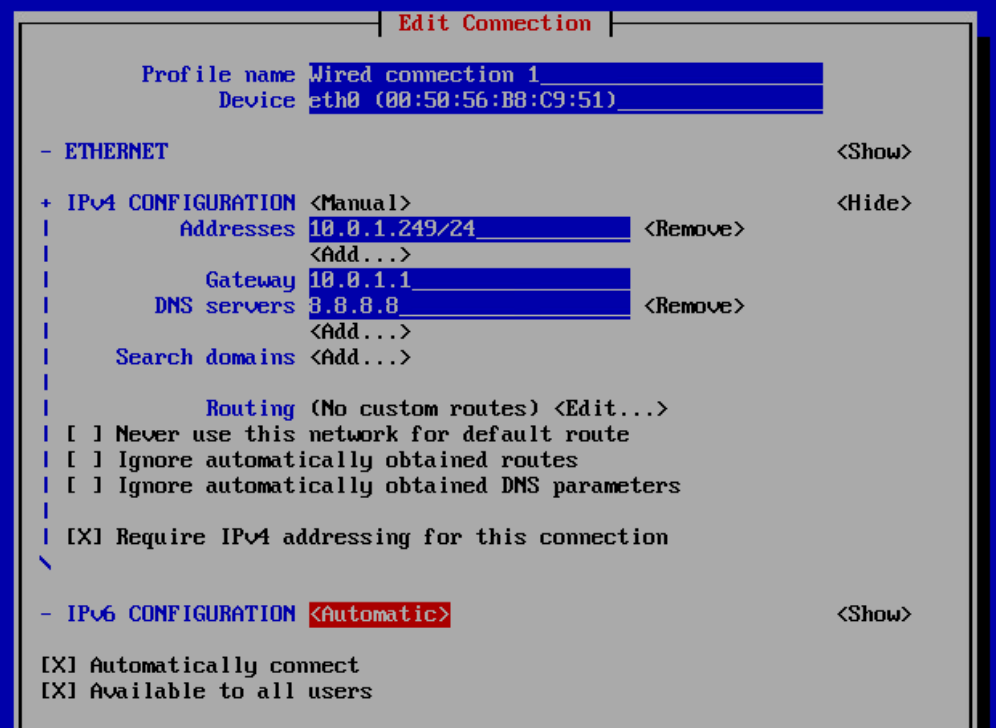
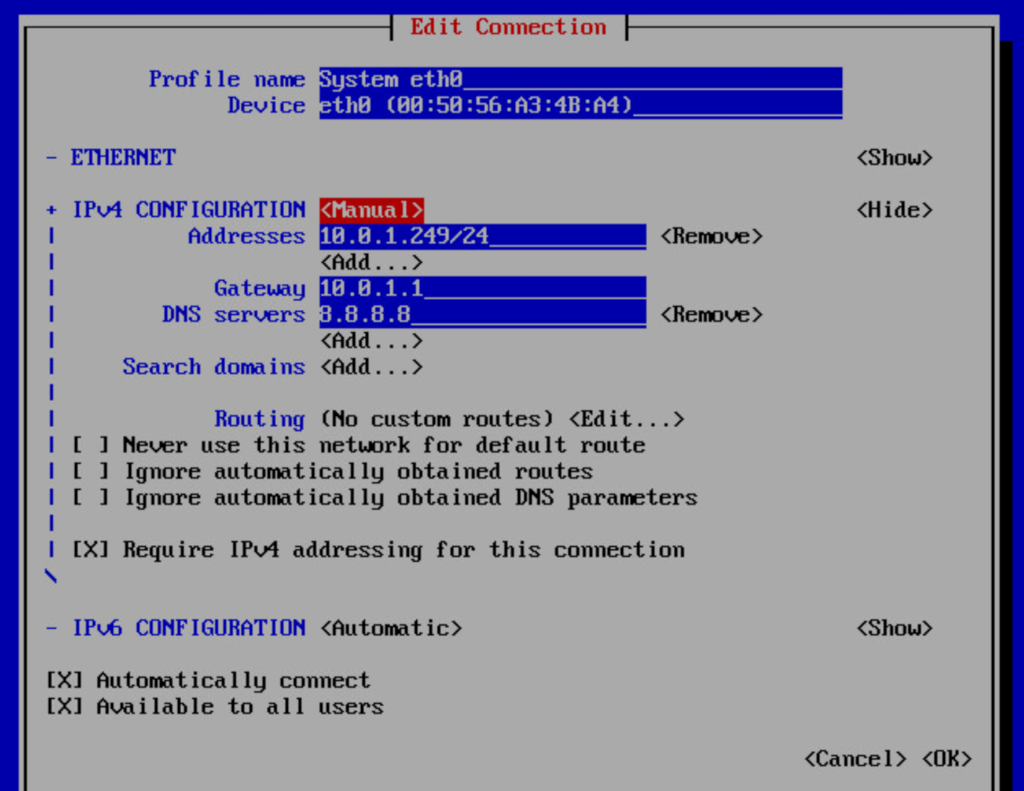
M #-: Update console screenshots

Changed region(s): [[0.0, 0.0, 0.996, 1.0], [0.8404, 0.1813, 0.9337, 0.3022], [0.8404, 0.7857, 0.9026, 0.8764]]

diff --git a/source/simple_cloud_deployment/download_and_deploy.rst b/source/simple_cloud_deployment/download_and_deploy.rst
@@ -96,7 +96,7 @@ In this wizard you need to **configure the network**. If you are using DHCP you 
 If you are using a static network configuration, answer yes and you will need to use a ncurses interface to:
 
 - "Edit a connection"
-- Select "Wired connection 1"
+- Select "System eth0"
 - Change IPv4 CONFIGURATION from <Automatic> to <Manual> and select "Show"
 - Input the desired IP address/24 in Addresses
 - Input Gateway and DNS Servers
